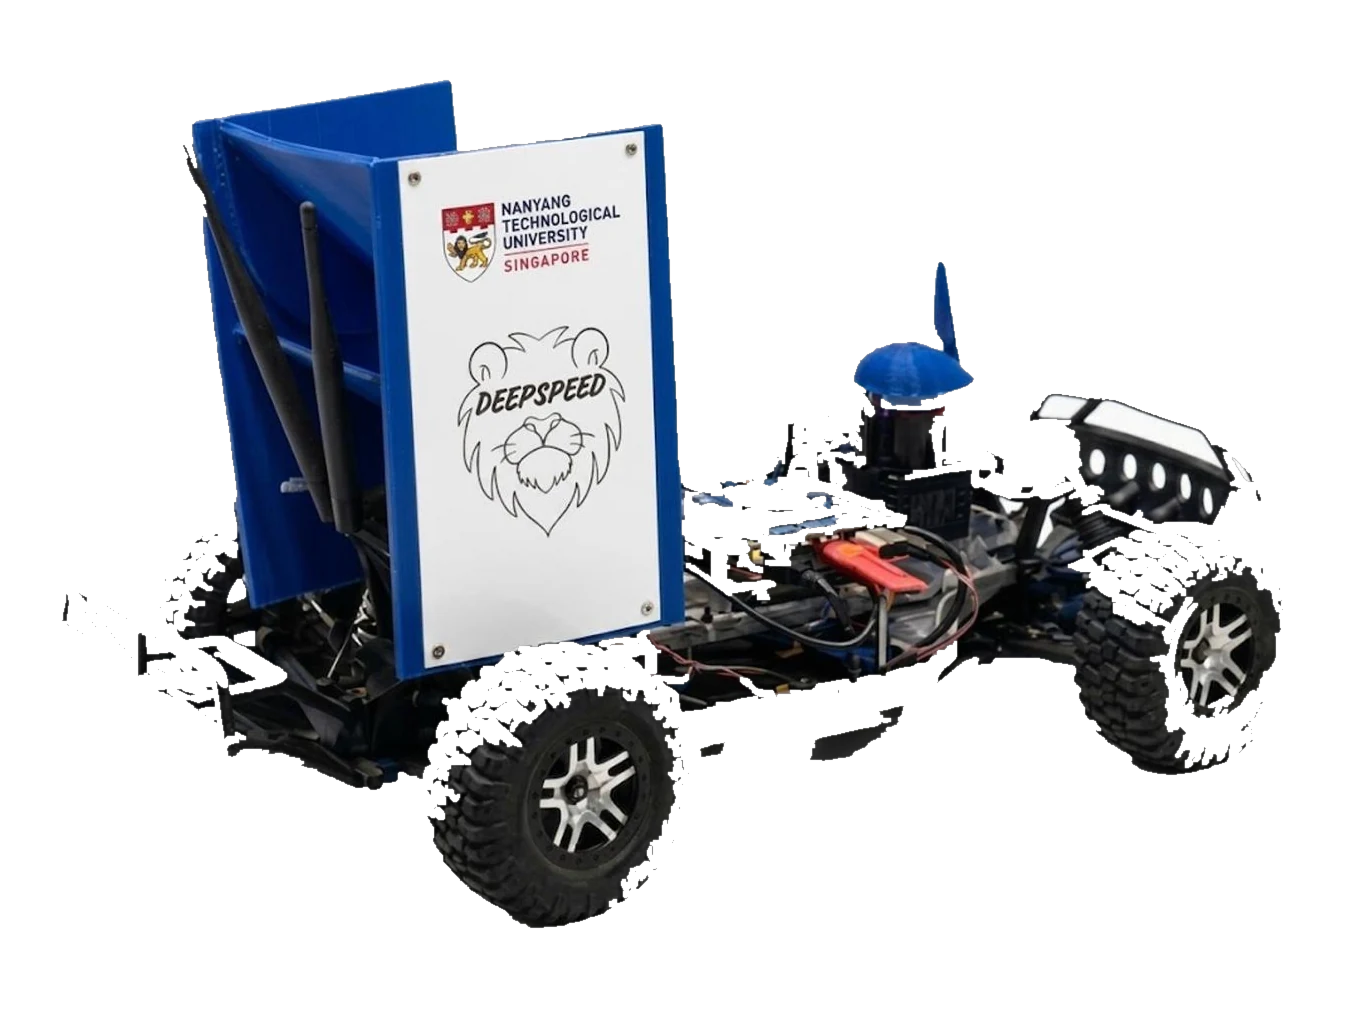
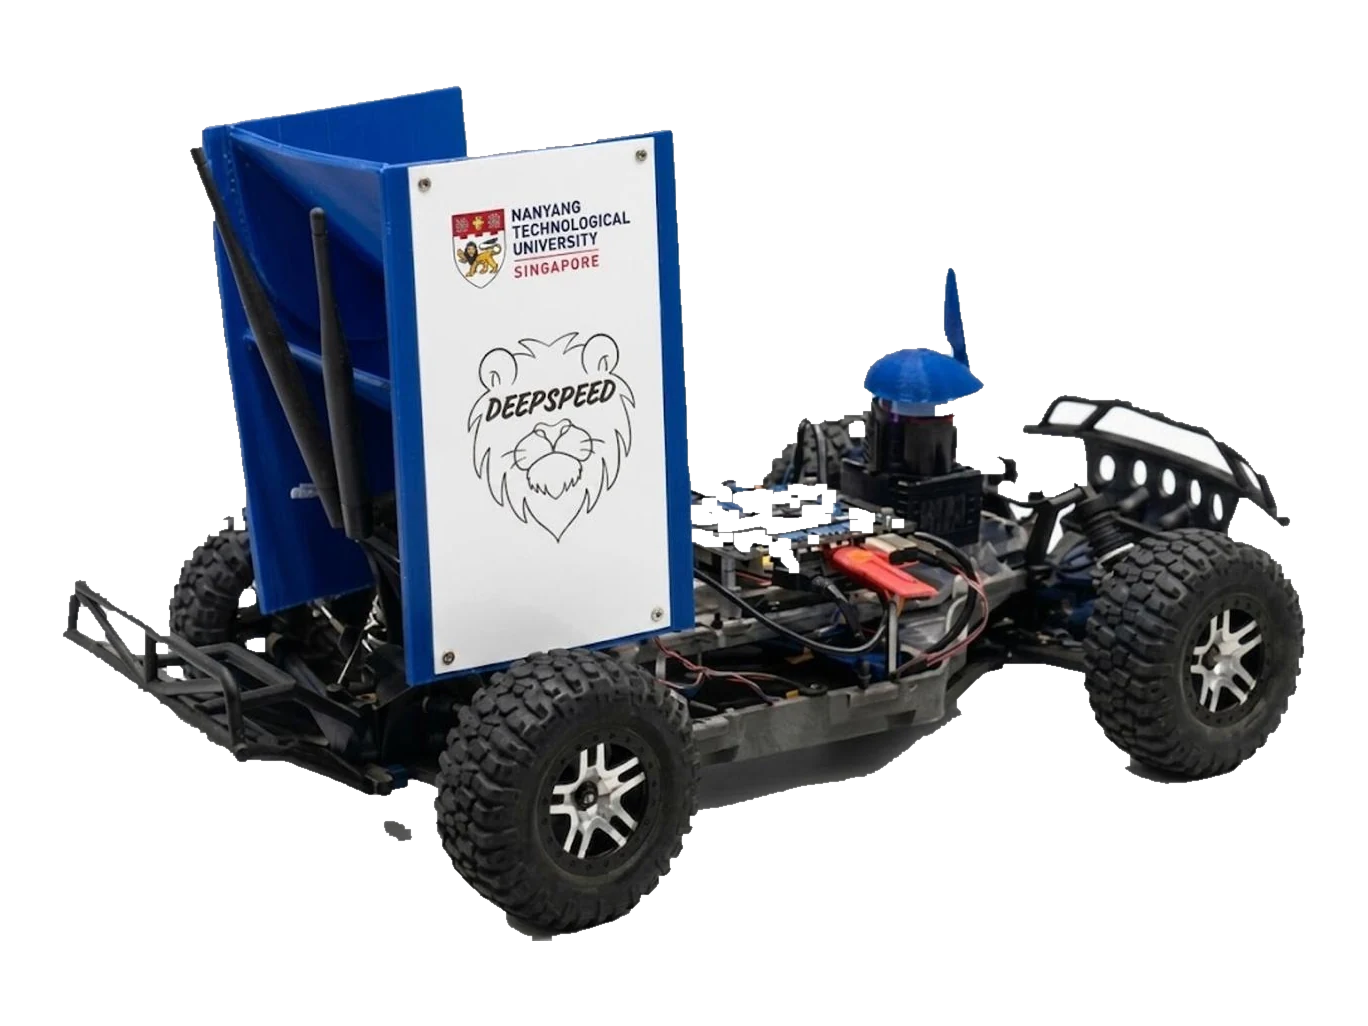
Pit notes: use the cut-out car, and re-cut it without eating the tyres
The previous cut-out was broken: the gradient-following creep that took the
cast shadow also walked into the tyres, the bumper and the chassis, leaving
them full of holes. It only looked passable because the holes were dark on a
dark page.

Measuring settled that the shadow cannot be separated from the rubber at all.
Under the car the shadow runs to luminance 27-81 and the tyres to 3-52, and
local texture overlaps just as badly (shadow 3.9-8.0, tyres 6.0-8.4). So the
matte is now strictly connectivity-based: a border flood at luminance 85,
which takes the backdrop and most of the cast shadow while a hard edge stops
it. The contact shadow hugging the tyres stays, and cannot go automatically.
Pinholes punched through bright spots on the chassis deck are closed.

The pit note now uses that cut-out too — as the article hero on the panel
grid, matching the home page, and as the index card thumb, which needs
object-fit: contain so the car sits whole in the slot instead of being
cropped to fill it. Social previews get a dedicated 1200x630 render on the
site background, since transparency does not survive an OpenGraph embed.

diff --git a/src/data/pit-notes.ts b/src/data/pit-notes.ts
@@ -8,6 +8,8 @@ export interface PitNote {
   href: string;
   /** Card thumbnail shown on the Pit notes index (16:9 crop). */
   thumb: string;
+  /** Set for cut-out thumbs, which must sit whole in the slot rather than fill it. */
+  thumbContain?: boolean;
   featured?: boolean;
 }
 
@@ -21,7 +23,8 @@ export const pitNotes: PitNote[] = [
     blurb:
       "What the 1/10-scale platform is, what's bolted to the car, and how a LiDAR scan turns into a steering angle — the short version, for anyone starting out.",
     href: "/pit-notes/f1tenth-101/",
-    thumb: "/assets/pit-notes/f1tenth-101/thumb.jpg",
+    thumb: "/assets/car.webp",
+    thumbContain: true,
   },
   {
     tag: "Race report",

diff --git a/src/styles/site.css b/src/styles/site.css
@@ -160,6 +160,12 @@
 .article-figure.plate .article-media {
   background: var(--ink-0w); border-color: var(--line-strong); padding: 16px;
 }
+/* Cut-out subject — pair with .grid-bg so it sits on the panel grid, not a photo backdrop. */
+.article-media.cutout {
+  background-color: var(--bg-elev-1); padding: 24px; box-sizing: border-box;
+}
+/* Cut-out card thumb — show the whole subject instead of cropping it to fill. */
+.note-card .thumb.contain { object-fit: contain; background: var(--bg-elev-2); padding: 10px; }
 /* Detail-dense figures break out past the 720px text column so labels stay readable. */
 @media (min-width: 900px) {
   .article-figure.wide {
